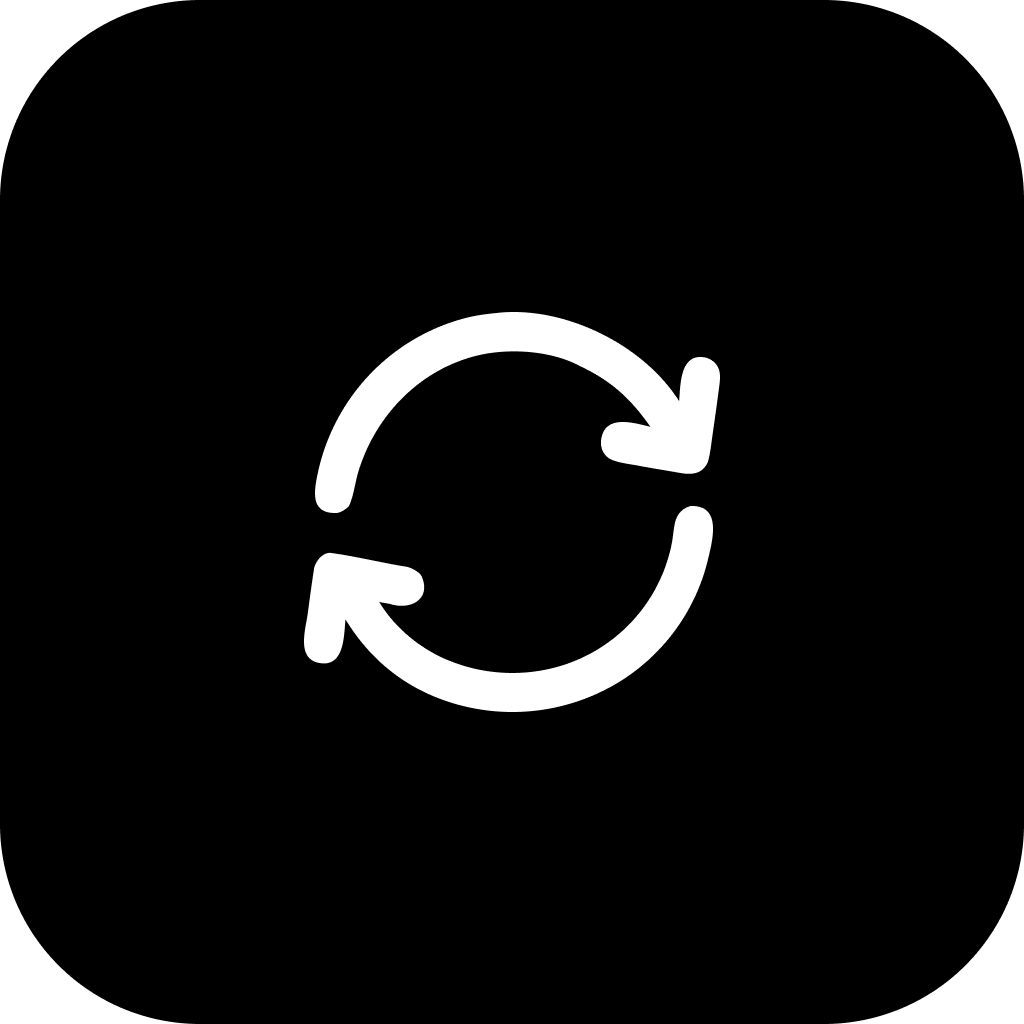
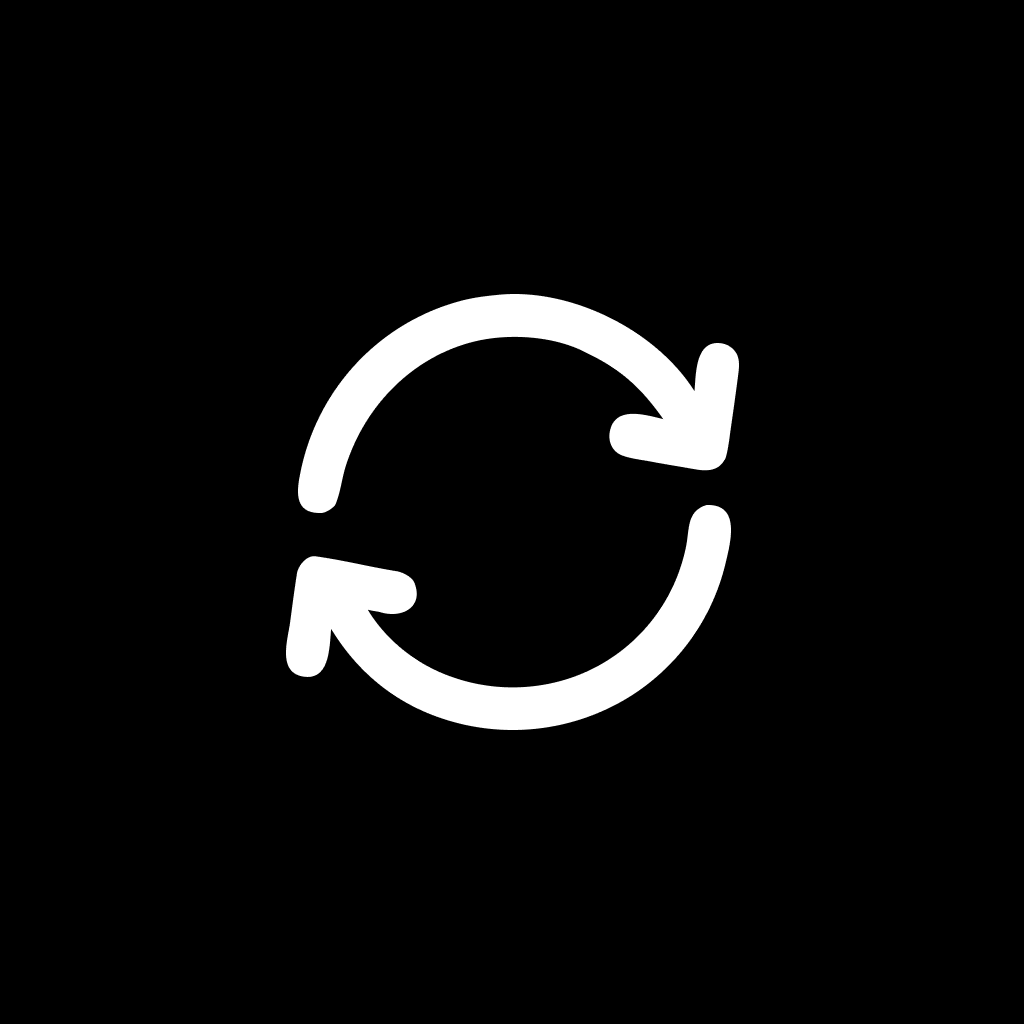
edit:26mars2026

diff --git a/hooks/useSocketIO.ts b/hooks/useSocketIO.ts
@@ -3,23 +3,64 @@ import { useState, useEffect } from "react";
 import { useAppStore } from "./useAppStore";
 
 const PORT = 9876
+let socketInstance: Socket | null = null
+let currentIp: string | null = null
 
 export function useSocketIO() {
     const ip = useAppStore(state => state.ip)
-    const [socket, setSocket] = useState<Socket | null>(null)
-    const [isConnected, setIsConnected] = useState(false)
+    const [isConnected, setIsConnected] = useState(socketInstance?.connected || false)
 
     useEffect(() => {
-        if (!ip) return
-        const socket = io("http://" + ip + ":" + PORT)
-        socket.on("connect", () => setIsConnected(true))
-        socket.on("disconnect", () => setIsConnected(false))
-        setSocket(socket)
+        if (!ip) {
+            if (socketInstance) {
+                socketInstance.disconnect()
+                socketInstance = null
+                currentIp = null
+                setIsConnected(false)
+            }
+            return
+        }
+
+        if (!socketInstance || ip !== currentIp) {
+            if (socketInstance) {
+                socketInstance.disconnect()
+            }
+
+            currentIp = ip
+            socketInstance = io(`http://${ip}:${PORT}`, {
+                transports: ["websocket"],
+                reconnection: true,
+                reconnectionAttempts: 10,
+                reconnectionDelay: 2000
+            })
+        }
+
+        const onConnect = () => {
+            setIsConnected(true)
+        }
+
+        const onDisconnect = () => {
+            setIsConnected(false)
+        }
+
+        const onConnectError = (error: any) => {
+            setIsConnected(false)
+        }
+
+        socketInstance.on("connect", onConnect)
+        socketInstance.on("disconnect", onDisconnect)
+        socketInstance.on("connect_error", onConnectError)
+
+        setIsConnected(socketInstance.connected)
 
         return () => {
-            socket.disconnect()
+            if (socketInstance) {
+                socketInstance.off("connect", onConnect)
+                socketInstance.off("disconnect", onDisconnect)
+                socketInstance.off("connect_error", onConnectError)
+            }
         }
     }, [ip])
 
-    return { socket, isConnected }
+    return { socket: socketInstance, isConnected }
 }

diff --git a/components/screens/Clipboard.tsx b/components/screens/Clipboard.tsx
@@ -10,12 +10,14 @@ import { Data } from "@/types/types";
 import { ThemedText } from "@/components/ThemedText";
 import { Button } from "@/components/forms/Button";
 import { AddItemToClipboard } from "../ui/AddItemToClipboard";
+import { useThemeColor } from "@/hooks/useThemeColor";
 
 export function Clipboard() {
 
     const listRef = useRef<FlashListRef<Data> | null>(null)
     const { data, isPending, isRefetching, refetch, token, ip, scrollTopToRefetch } = useClipboardManagement(listRef)
     const setTabActiveIndex = useAppStore(state => state.setTabActiveIndex)
+    const { colors } = useThemeColor()
 
     return <>
         <View style={{ flex: 1 }}>
@@ -28,7 +30,7 @@ export function Clipboard() {
                 keyExtractor={(item) => item.id}
                 ListEmptyComponent={
                     (token && ip && isPending) ? (
-                        <ActivityIndicator size="large" />
+                        <ActivityIndicator size="large" color={colors.primary} />
                     ) : (
                         <View className="items-center justify-center">
                             <ThemedText className="text-center text-xl font-bold mt-10 opacity-80 mb-4">

diff --git a/components/screens/Settings.tsx b/components/screens/Settings.tsx
@@ -3,7 +3,6 @@ import { ThemedText } from "@/components/ThemedText";
 import { View } from "@/components/View";
 import { useThemeColor } from "@/hooks/useThemeColor";
 import Feather from '@expo/vector-icons/Feather';
-import { useState } from "react";
 import { Text as NativeText, View as NativeView, Pressable, Switch, TextProps } from "react-native";
 import { useAppStore } from "@/hooks/useAppStore";
 
@@ -116,7 +115,15 @@ function Preference({ preference, active, setActive }: PreferenceProps) {
             </NativeView>
             <ThemedText className="font-semibold text-lg">{preference.name}</ThemedText>
         </NativeView>
-        <Switch value={active} onValueChange={setActive} />
+        <Switch 
+            value={active} 
+            onValueChange={setActive} 
+            thumbColor={colors.primary} 
+            trackColor={{
+                true: colors.tagSourceIconColor,
+                false: colors.tagSourceBorderColor
+            }} 
+        />
     </Pressable>
 }
 

diff --git a/components/screens/Search.tsx b/components/screens/Search.tsx
@@ -70,7 +70,7 @@ export function Search() {
                 keyExtractor={(item) => item.id}
                 ListEmptyComponent={
                     <View className="-mt-4">
-                        {isLoading ? <ActivityIndicator size="large" className="mt-4" /> :
+                        {isLoading ? <ActivityIndicator size="large" color={colors.primary} className="mt-4" /> :
                             isOfflineMode && !storedData ? 
                                 <ThemedText className="text-center text-xl font-bold mt-10 opacity-80 mb-4">
                                     Recherche hors ligne impossible

diff --git a/app/clipboard/[id].tsx b/app/clipboard/[id].tsx
@@ -103,7 +103,7 @@ export default function CardPreview() {
 
     return <SafeAreaView className="flex-1">
         {isPending && <View className="flex-1 items-center justify-center">
-            <ActivityIndicator size="large" color={colors.tagSourceIconColor} />
+            <ActivityIndicator size="large" color={colors.primary} />
         </View>}
 
         {data &&
